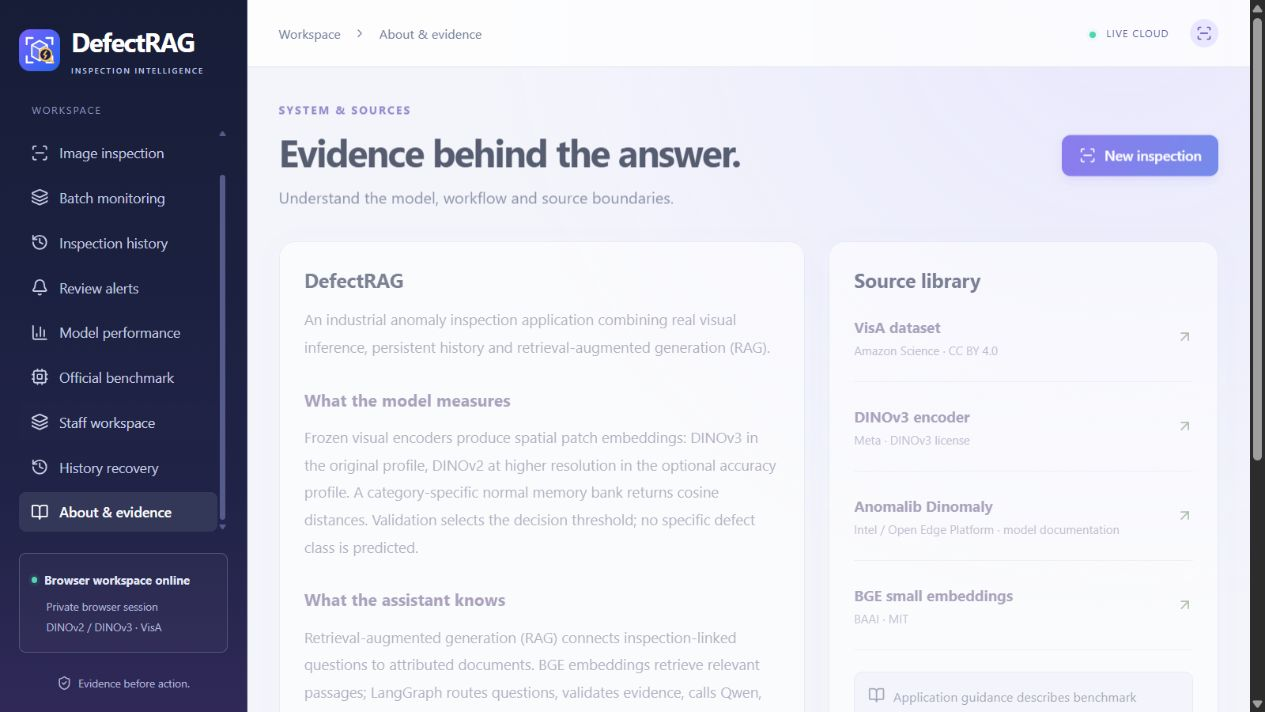
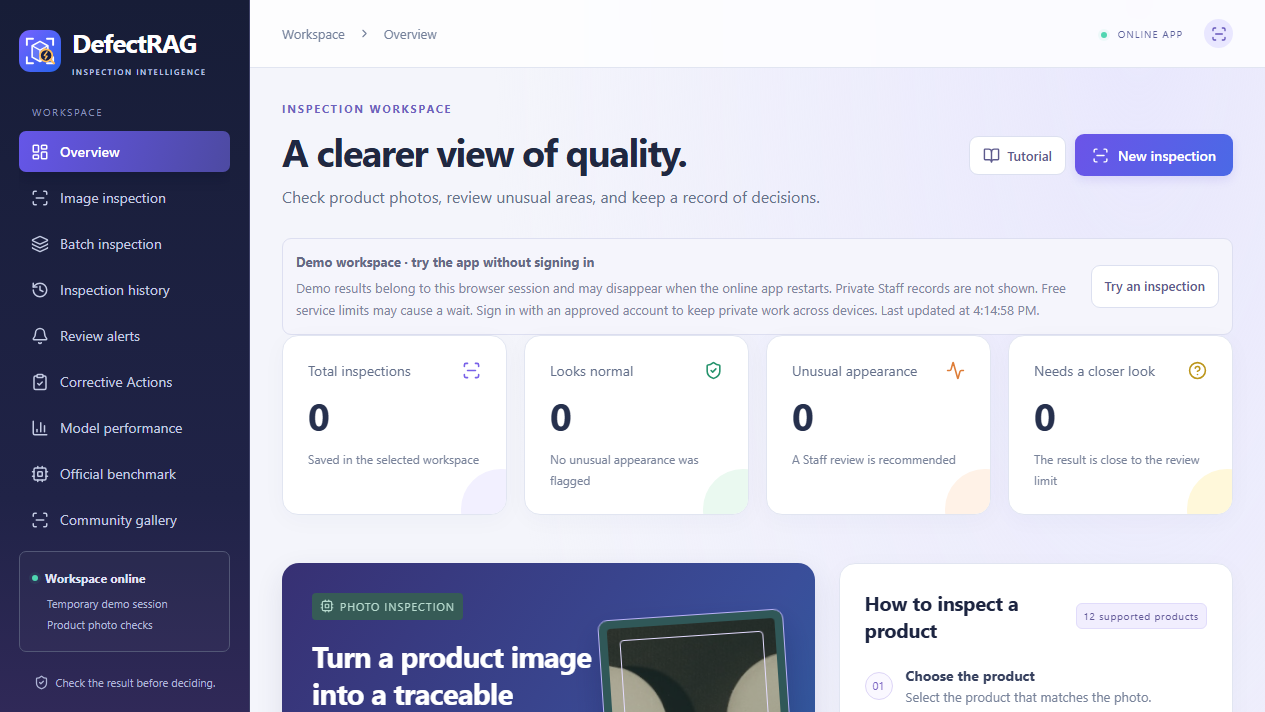
Restore Space transport in cloud builds; tutorial card avoids controls; refresh README and screenshots

diff --git a/frontend/src/TutorialCoach.jsx b/frontend/src/TutorialCoach.jsx
@@ -1,24 +1,37 @@
-import React,{useEffect,useRef} from 'react';
+import React,{useEffect,useRef,useState} from 'react';
 import {ArrowLeft,BookOpen,Crosshair,X} from 'lucide-react';
 import {tutorialSteps} from './tutorial.mjs';
+import {chooseCoachSpot} from './coachPlacement.mjs';
+
+const CONTROLS='button,a[href],input,select,textarea,[role=button],[tabindex="0"]';
 
 const pageNames={inspect:'Image inspection',history:'Inspection history',team:'Staff workspace',cases:'Corrective Actions',batch:'Batch inspection',alerts:'Review alerts',overview:'Overview'};
 // Coach card over the real screens; highlights the real control for each step.
 export default function TutorialCoach({state,page,onGo,onSkip,onFinish,onBack}){
- const steps=tutorialSteps(),step=steps[state.step],heading=useRef(null);
+ const steps=tutorialSteps(),step=steps[state.step],heading=useRef(null),card=useRef(null);
+ const [spot,setSpot]=useState('bottom-right');
  const onPage=page===step.page||step.target==='finish';
  useEffect(()=>{heading.current?.focus({preventScroll:true})},[state.step]);
  useEffect(()=>{
   // Real pages re-render while polling, so re-apply the highlight briefly each second.
   let shown=null;
   const mark=()=>{const target=onPage?document.querySelector('[data-tour="'+step.target+'"]'):null;
-   if(target!==shown){shown?.classList.remove('tour-target');target?.classList.add('tour-target');shown=target}};
+   if(target!==shown){shown?.classList.remove('tour-target');target?.classList.add('tour-target');shown=target}
+   place(target)};
+  // Move the card to the corner that hides the fewest of the step's controls.
+  const place=target=>{
+   const box=card.current?.getBoundingClientRect();if(!box)return;
+   const controls=target?[...target.querySelectorAll(CONTROLS),...(target.matches(CONTROLS)?[target]:[])].filter(el=>el.offsetParent!==null&&!card.current.contains(el)).map(el=>el.getBoundingClientRect()):[];
+   setSpot(chooseCoachSpot({width:window.innerWidth,height:window.innerHeight,coachWidth:box.width,coachHeight:box.height},controls,target?.getBoundingClientRect()||null));
+  };
+  const reposition=()=>place(shown);
   mark();const timer=setInterval(mark,1000);
-  return()=>{clearInterval(timer);shown?.classList.remove('tour-target')};
+  window.addEventListener('scroll',reposition,{passive:true});window.addEventListener('resize',reposition);
+  return()=>{clearInterval(timer);window.removeEventListener('scroll',reposition);window.removeEventListener('resize',reposition);shown?.classList.remove('tour-target')};
  },[step.target,onPage]);
  // On phones the card covers the lower screen, so bring the control to the top.
  function show(){document.querySelector('[data-tour="'+step.target+'"]')?.scrollIntoView({block:window.innerWidth<=680?'start':'center',behavior:'smooth'})}
- return <aside className="tutorial-coach" role="dialog" aria-modal="false" aria-labelledby="coach-title">
+ return <aside ref={card} className={'tutorial-coach at-'+spot} role="dialog" aria-modal="false" aria-labelledby="coach-title">
   <div className="section-title"><span className="subtle-tag"><BookOpen size={13}/> PRACTICE · STEP {state.step+1} OF {steps.length}</span><button type="button" className="icon-button" aria-label="Skip tutorial" onClick={onSkip}><X size={17}/></button></div>
   <progress aria-label="Practice progress" value={state.step+1} max={steps.length}/>
   <h2 ref={heading} tabIndex={-1} id="coach-title">{step.title}</h2>

diff --git a/frontend/src/theme.css b/frontend/src/theme.css
@@ -84,3 +84,5 @@ table{font-size:14px}th{background:#f5f6fc;color:#8189a1;font-size:11px;padding:
 .due-shortcuts{display:flex;flex-wrap:wrap;gap:8px;margin-bottom:12px}.chip{border:1px solid #dce0f0;background:#fff;color:#4e5872;border-radius:999px;padding:7px 13px;font-size:13px;min-height:34px}.chip:hover:not(:disabled){border-color:#b7aceb;background:#f6f4ff}.chip.selected{background:#eeebff;border-color:#8f7ce7;color:#4d3fb0;font-weight:600}
 .due-inputs{display:grid;grid-template-columns:minmax(0,1fr) minmax(0,160px);gap:12px}.due-inputs .field{margin-bottom:0;font-weight:500;font-size:13px}.due-summary{margin-top:10px}.due-summary strong{color:#3d3a73;font-weight:600}
 @media(max-width:480px){.due-inputs{grid-template-columns:1fr}}
+.tutorial-coach.at-bottom-left{right:auto;left:24px}.tutorial-coach.at-top-right{bottom:auto;top:24px}.tutorial-coach.at-top-left{right:auto;left:24px;bottom:auto;top:24px}
+@media(max-width:680px){.tutorial-coach.at-top{bottom:auto;top:calc(8px + env(safe-area-inset-top,0px))}}

diff --git a/README.md b/README.md
@@ -15,7 +15,7 @@
   <img src="https://img.shields.io/badge/LangGraph-1.2.14-1C3C3C?style=flat-square" alt="Cloud LangGraph 1.2.14" />
   <img src="https://img.shields.io/badge/Supabase-Auth_%2B_RLS_%2B_Storage-3ECF8E?style=flat-square&amp;logo=supabase&amp;logoColor=white" alt="Supabase authentication, row-level security and storage" />
   <img src="https://img.shields.io/badge/MFA-native_TOTP-635BFF?style=flat-square" alt="Native Supabase TOTP MFA" />
-  <img src="https://img.shields.io/badge/n8n-local_QA_verified-EA4B71?style=flat-square&amp;logo=n8n&amp;logoColor=white" alt="n8n local QA integration verified; unattended corrective-action delivery disabled" />
+  <img src="https://img.shields.io/badge/n8n-case_emails_live-EA4B71?style=flat-square&amp;logo=n8n&amp;logoColor=white" alt="n8n on AWS delivers Corrective Action emails" />
   <img src="https://img.shields.io/badge/License-MIT-7963DF?style=flat-square" alt="MIT application license" />
 
   <p><a href="https://huggingface.co/spaces/Wizzas/DefectRAG">Live application</a> · <a href="#current-capabilities">Features</a> · <a href="#architecture">Architecture</a> · <a href="#measured-results">Results</a> · <a href="#quick-start">Quick start</a> · <a href="docs/STAFF_QUICK_GUIDE.md">Staff guide</a></p>
@@ -23,10 +23,11 @@
 
 ## Overview
 
-**Run locally:** use the [setup guide](docs/SETUP.md)
-for the synchronized dashboard and verified local n8n demonstration. Developer
-registration emails use the existing independent cloud service. Corrective Action
-email automation remains disabled; always-on hosting and Multimodal RAG are deferred.
+**Run locally:** use the [setup guide](docs/SETUP.md) for the synchronized
+dashboard. Developer registration emails use the independent Supabase/Resend
+service. Corrective Action emails are live: a self-hosted n8n instance on AWS
+Lightsail emails the case supervisor and copies the person responsible within
+seconds of a saved change. Multimodal RAG remains future work.
 
 DefectRAG combines frozen visual encoders with a normal-reference memory bank and
 an inspection-linked RAG assistant. The existing React dashboard supports image
@@ -53,38 +54,40 @@ hosts the cloud UI, CPU services and queued ZeroGPU inference.
 
 | Capability | What it does | Status |
 |---|---|---|
-| **Guided practice** | Opens the relevant dashboard page, highlights a control and advances after the required action. Covers 17 steps with Back, Skip and replay. | Verified locally and on Hugging Face |
+| **Guided practice** | A coach card walks through 14 steps on the real screens, highlighting the actual control and advancing only when the action is done, with hints for wrong choices. Practice data stays in memory and makes no network request. | Live on Hugging Face |
 | **Public Demo Mode** | Visitors can explore inspection without becoming Staff. Private account and Team records remain separate. | Available; free inference quotas apply |
 | **Staff registration and approval** | Email-confirmed applicants submit Pending requests. Developers approve, reject or revoke access from the interface; signup grants no Staff membership. | Implemented and activated on the existing installation |
 | **Native TOTP MFA** | Approved Staff and Developers verify an authenticator code. Backend, database functions, RLS and protected storage enforce the required assurance. | Enforced on the existing installation |
 | **Personal local ↔ cloud synchronization** | The same approved account uses private history across local and hosted clients, including images, heatmaps, conversations and review state. Queued changes, duplicates and conflicts have explicit handling. | Real Supabase QA verified; unsynchronized local changes are not yet cloud-saved |
 | **Explicit Team collaboration** | Share a separate inspection copy, open evidence and save structured Staff reviews. Personal records are never automatically published to Team. | Implemented |
-| **Corrective Actions** | Draft an assignment, choose Staff/supervisor and a deadline, then create a case from an eligible human-confirmed Team defect. Refresh preserves drafts; concurrent updates require explicit review. Only the owner, supervisor or a Developer can edit existing cases. | Live controls verified; lifecycle and security QA retained |
+| **Corrective Actions** | The inspection picker shows each review's status and the next step. A case is created from a human-confirmed Team defect with a person responsible, supervisor and due date (Tomorrow / 3 days / 1 week / 2 weeks shortcuts). Refresh preserves drafts; concurrent updates require explicit review. Only the owner, supervisor or a Developer can edit existing cases. | Live |
 | **Community Gallery** | Publish a separate public copy with explicit consent. Private notes, conversations and account history stay separate. | Hosted gallery available; local publishing needs separate configuration |
 | **Developer request emails** | A durable outbox, cloud scheduler, Supabase Edge worker and Resend notify the Developer independently of the Windows laptop. | Controlled cloud delivery verified; current restricted sender is for the verified Developer recipient |
-| **n8n corrective-action integration** | Secured event delivery, validation, a test mail sink and authenticated completion callbacks. | One-event real Supabase/local n8n QA verified; unattended production delivery and schedules **OFF** |
+| **Corrective Action emails (n8n)** | A database trigger dispatches each new case or saved update immediately; a 2-minute schedule sends due-soon and overdue reminders and retries. A Supabase Edge Function gives n8n a short-lived, event-scoped lease; n8n emails the supervisor, copies a distinct verified person responsible and records the provider receipt. A one-effect ledger prevents duplicate sends. | Live; paused with one database flag |
 | **Model results and recovery** | DINOv2/DINOv3 comparisons, all 12 categories, reports, CSV exports, review alerts and recoverable archival remain accessible. | Existing functionality preserved |
 
-These statuses describe the verified installation on **26 October 2026**. A fresh
+These statuses describe the verified installation on **31 October 2026**. A fresh
 clone starts with blank public Supabase configuration and still needs its own
 reviewed database/authentication setup; cloning does not activate cloud services.
 
 ### Learn by doing
 
-Open **Overview → Tutorial → Start guided practice**. The lesson moves through
-Image inspection, History, Staff review, Corrective Actions, Batch inspection,
-Review alerts and public-sharing consent. It waits for each action rather than
-advancing through text slides. Real signed-in inspections save to Personal
-Workspace automatically; the lesson teaches finding that private copy in history.
+Open **Overview → Tutorial → Start guided practice**. A coach card guides you
+through the same screens used for real work: choose a product and photo, inspect,
+compare images, ask the assistant, share with the team, publish with consent,
+save a Staff review, create and progress a case, run a small batch and acknowledge
+an alert. Each step highlights the real control and completes only when the action
+is done; wrong choices get a hint.
 
-Practice uses attributed, historical public examples and fictional assignments.
-It creates no real inspection, Staff review, case, Team share or email, grants no
-account access and uses no GPU allowance. Existing photo drafts remain separate.
+During practice the app switches to an in-memory lesson workspace with an
+attributed public example and fictional colleagues. Nothing is saved, shared,
+published or emailed, no account access changes and no GPU allowance is used.
 The prepared teaching answer is labelled and is not a live Qwen response.
+Real work returns when the lesson ends.
 
-<p align="center"><img src="docs/assets/guided-practice.png" alt="Live guided practice navigating to Image inspection and highlighting Product category" width="820" /></p>
+<p align="center"><img src="docs/assets/guided-practice.png" alt="Guided practice coach card highlighting the real Product category control" width="820" /></p>
 
-[Staff quick guide](docs/STAFF_QUICK_GUIDE.md) · [Guided-practice design and verification](docs/GUIDED_PRACTICE.md)
+[Staff quick guide](docs/STAFF_QUICK_GUIDE.md)
 
 ## Architecture
 
@@ -145,14 +148,18 @@ flowchart TD
     Pending --> Outbox["Durable notification outbox"]
     Outbox --> Worker["Cloud Cron + Edge worker"]
     Worker --> Resend["Developer email · Resend"]
-    Case -. "Verified local QA; production OFF" .-> N8N["Authenticated n8n workflow"]
-    N8N -. "Test sink + authenticated receipt" .-> Case
+    Case --> Queue["Event queue · one-effect ledger"]
+    Queue -->|"Instant trigger + 2-min reminders"| Edge["Edge Function · event-scoped lease"]
+    Edge --> N8N["n8n on AWS · authenticated webhook"]
+    N8N --> Mail["Email: supervisor + copy to person responsible"]
+    N8N -->|"Provider receipt"| Queue
 ```
 
 Registration, MFA assurance, case ownership and revocation are enforced below the
-frontend. n8n does not generate OTPs or grant permissions. A case being saved does
-not mean a notification was delivered. Always-on n8n hosting and real unattended
-Corrective Action reminders/escalations have not been activated.
+frontend. n8n does not generate OTPs or grant permissions and never holds a
+database service key. Saving a case does not depend on email: if n8n or the mail
+provider is unavailable the case stays saved and the event waits in the queue; an
+ambiguous send is held for manual review instead of being repeated.
 
 | Component | Cloud deployment | Preserved local application |
 |---|---|---|
@@ -220,23 +227,26 @@ authorizes persistent shared records. Embedded and direct app links can have
 separate browser sessions. Free quotas, cold starts and queue waits apply.
 For onboarding, select **Overview → Tutorial**. If an already-open browser still
 shows an older menu, open the direct application in a new tab:
-[current hosted dashboard](https://wizzas-defectrag.hf.space/?release=57a57f5#overview).
+[current hosted dashboard](https://wizzas-defectrag.hf.space/?release=224259f#overview).
 
 ### Assign a confirmed defect
 
-1. Open **Corrective Actions** and choose a **Team inspection**. Personal work
-   must first be explicitly shared with the team.
-2. Enter a draft description, person responsible, supervisor, priority and deadline.
-   These fields are editable before review; a draft is not a saved case.
-3. Check the photo and its Staff review. Creation requires a valid **Reviewed /
-   Reject** decision and explicit human defect confirmation. Keep an appropriate
-   Accept/Hold decision unchanged. The message beside Create explains missing steps.
+1. Open **Corrective Actions** and choose a **Team inspection**. Each option shows
+   its status (for example *Ready: defect confirmed* or *Needs review*), with ready
+   inspections first. Personal work must first be explicitly shared.
+2. If a review is still needed, the step box links straight to it. Creation
+   requires a **Reviewed / Reject: defect confirmed** review and an explicit human
+   confirmation; Accept and Hold decisions are respected.
+3. Enter what needs fixing, the person responsible, supervisor, priority and due
+   date (one-click shortcuts, or a date and a time). A draft is not a saved case.
 4. Open **Details** to update permitted progress. Concurrent edits keep the draft
    and require an explicit reload. Closed/cancelled cases retain read-only history.
 
-A deadline alone does not send an email. The current n8n workflow targets the
-supervisor; unattended Corrective Action delivery remains disabled pending secure
-hosting and activation. [Staff guide](docs/STAFF_QUICK_GUIDE.md).
+Creating or updating a case emails the supervisor and copies the person
+responsible within seconds; reminders follow when a case is due within 24 hours or
+overdue. Each case shows its email delivery status. [Staff guide](docs/STAFF_QUICK_GUIDE.md).
+
+<p align="center"><img src="docs/assets/case-email.png" alt="Corrective Action email with a friendly robot greeting, case details and a View case button" width="560" /></p>
 
 ### Existing Windows installation
 
@@ -292,11 +302,17 @@ Supabase SQL changes require review; no public service-role key belongs in confi
 
 ## Validation and limits
 
-- Latest frontend regression suite (27 October 2026): **244 passed, zero failed**, including
-  action sequencing, incomplete-input denial, Back/replay, draft preservation and
-  teaching-image provenance/packaging. The full 17-step practice journey and
-  original/heatmap/batch image loading were verified in the live application.
-  These checks are not new model benchmarks. Mobile visual QA remains unverified.
+- Latest frontend regression suite (31 October 2026): **251 passed, zero failed**, including
+  the real-screen practice journey with no network calls, case picker status and
+  review wording, due-date shortcuts, draft preservation and a background-refresh
+  regression test. A browser measurement across repeated 15-second refreshes showed
+  no layout shift on the Cases and Staff pages. These checks are not new model
+  benchmarks. Physical-device QA is limited to browser phone-width checks.
+- The Corrective Action email SQL changes (person-responsible copy and instant
+  dispatch) passed isolated PostgreSQL 17 contract tests, including permission
+  preservation and exact rollback. Live delivery was verified end to end with test
+  cases: the supervisor and the copied recipient each received every email once,
+  and each send was recorded with a provider receipt.
 - **145 targeted backend/security/publisher tests passed**, using isolated software fixtures. Shared read-only routes now keep cloud batch-name validation and printable reports compatible with the dashboard.
 - Phone/tablet/desktop browser fixtures checked result/preview focus, form controls, service recovery and the case lifecycle. Demo reviews and recovery explicitly describe their temporary scope; Batch history excludes individual inspections. New-task controls preserve active inspections and answers.
 - **39 focused case/navigation tests** cover draft entry before review, Accept/Hold
@@ -313,8 +329,8 @@ Supabase SQL changes require review; no public service-role key belongs in confi
 - Staff records and conversations survived an actual Space deployment restart.
 - Later native Staff/Developer/pending/MFA and Corrective Action assignment tests
   are summarized with their access boundaries in [Security](docs/SECURITY.md).
-  Sustained production load and unattended hosted Corrective Action delivery are
-  not established by these tests.
+  Sustained production load and long-term email deliverability are not
+  established by these tests.
 - Staff-submitted answers still lack model-provenance attestation. Alert actor/time
   tracking is present in the later personal-workspace schema; see the current
   [security guide](docs/SECURITY.md) and migration source.
